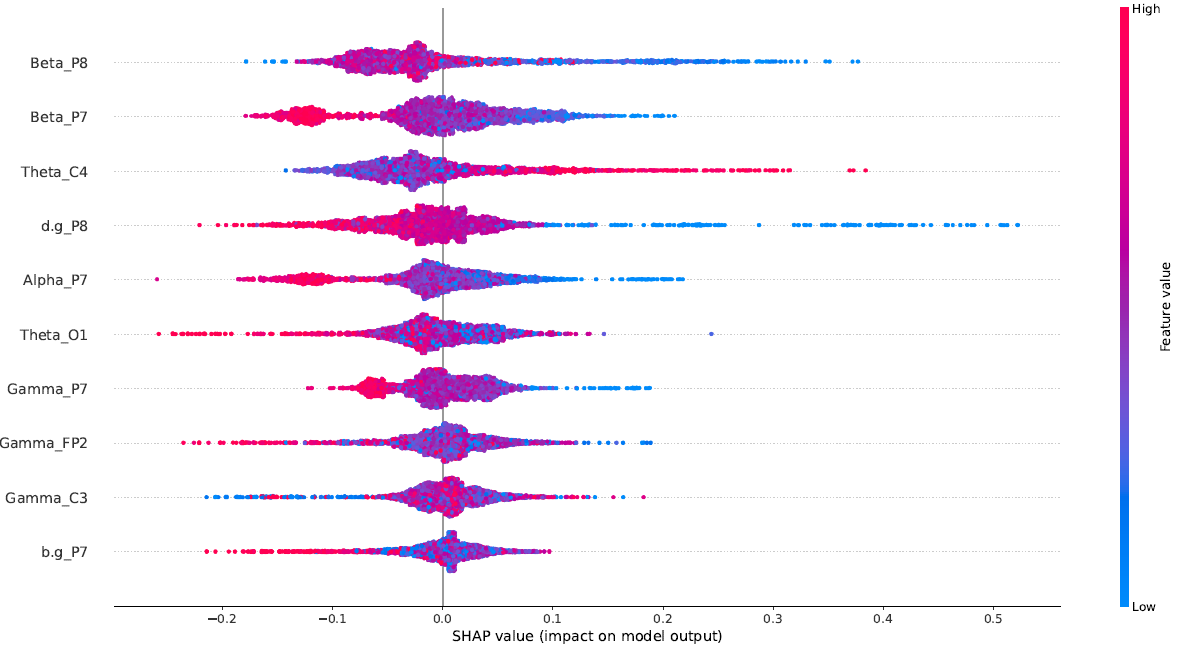
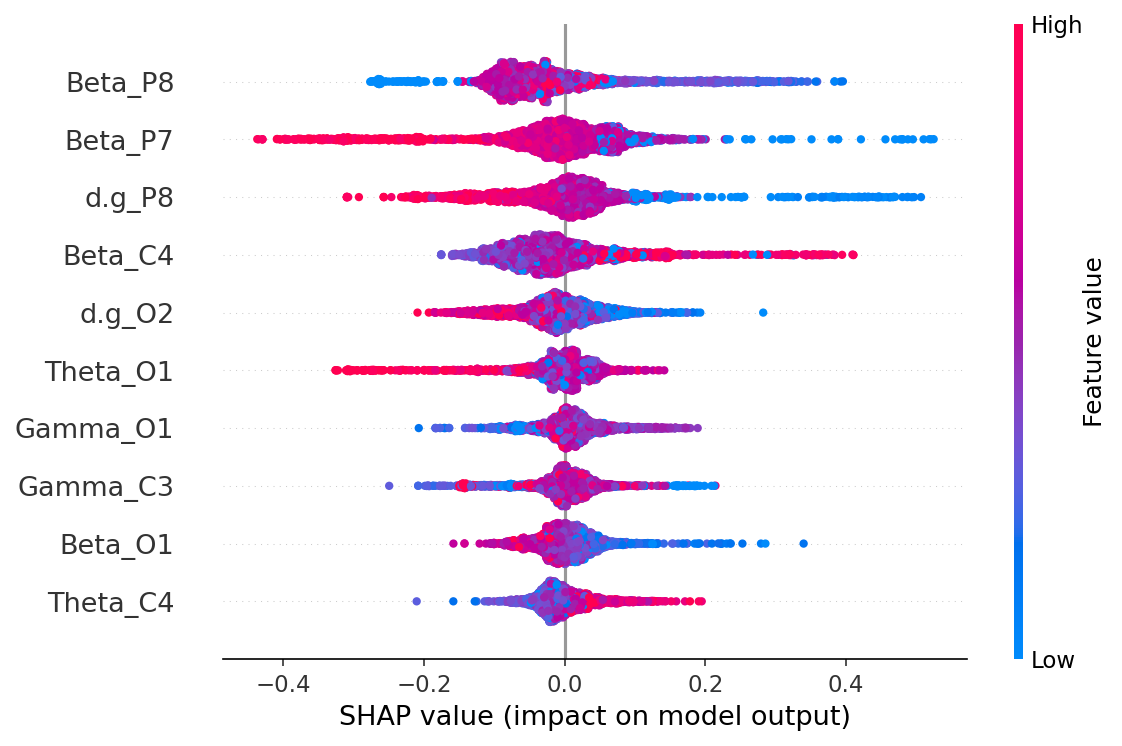
SHAP figure update.

diff --git a/7.Deployment/create_model.py b/7.Deployment/create_model.py
@@ -8,7 +8,8 @@
 import pandas as pd
 from sklearn.ensemble import RandomForestClassifier
 from sklearn.model_selection import train_test_split
-import shap
+from shap import TreeExplainer, summary_plot
+import matplotlib.pyplot as plt
 
 # The same data is used to train the rf model now in python, the data is divided on the same 80:20 split and the target
 # variable is converted into a category type of data.
@@ -29,9 +30,11 @@ print(metrics.confusion_matrix(y_test, prediction))
 print(metrics.accuracy_score(y_test, prediction))
 
 # A SHapley Additive exPlanations summary plot is made, to observe the relation of the source and target variables
-shap_values = shap.TreeExplainer(rf).shap_values(X_test)[1]
-f = shap.summary_plot(shap_values, X_test)
+shap_values = TreeExplainer(rf).shap_values(X_test)[1]
+fig = plt.figure()
+summary_plot(shap_values, X_test, show=False)
+fig.savefig('fig/SHAP.png', format='png', dpi=150, bbox_inches="tight")
 
 from pickle import dump
 # The model is exported into a pickle file, useful for quick importing and to make later predictions on new data.
-dump(rf, open('model.pkl', 'wb'))
+dump(rf, open('Data/Processed/model.pkl', 'wb'))

diff --git a/README.md b/README.md
@@ -52,7 +52,7 @@ Interesting insights were drawn on the final model (RF), since its a tree-based 
 The analysis revealed that high values of features from P7 and P8 channels were correlated with low levels of mental fatigue, in contrast to the C4 channel, in which high values of _Gamma_ C4 were correlated with lower levels of mental fatigue.
 
 <div align="center">
-<img src="https://github.com/milkbacon/ALAS-ML/blob/main/fig/SHAP.png" width=50% height=50%>
+<img src="https://github.com/milkbacon/ALAS-ML/blob/main/fig/SHAP.png" width=50% height=75%>
 </div>
 
 On the other hand, *FeatureMatrices_post.mat* did not had classes, and so the final model predicted the classes based on the biometric signals gathered. The results are displayed on the following plot, which represents the prevalence of fatigue classes and how the predominant class changed from _No Fatigue_ to _Moderate Fatigue_. This represents an additional validation to the model, because the data the subject passed a test which provoke him fatigue, and thus it reasonable that its mental fatigue increased due to the fact that the test provoke him an additional mental burden.
